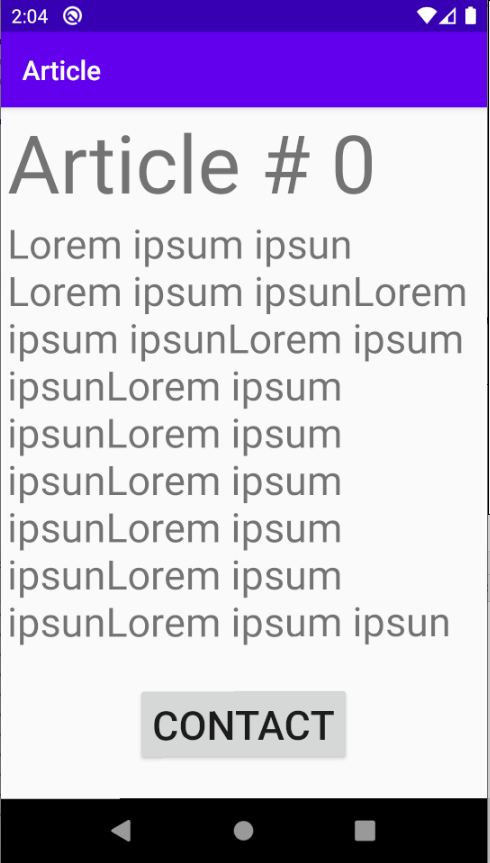
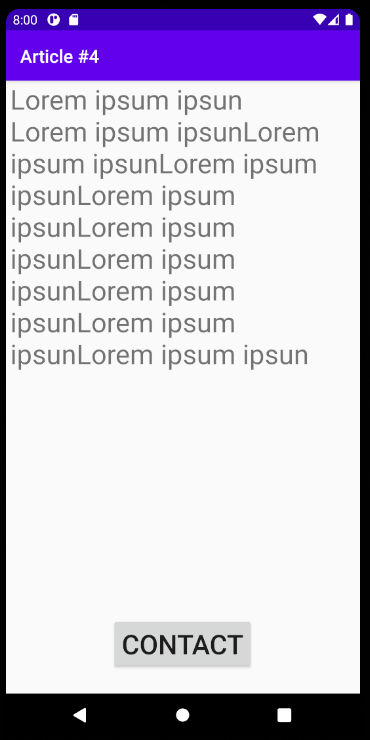
Modif semaine 9

Changed region(s): [[0.0, 0.0, 1.0, 1.0]]

diff --git a/intro-android.html b/intro-android.html
@@ -82,7 +82,7 @@
                                 Reproduire le drapeau de l'Italie avec 3 TextView de même taille.
                             </p>
                             <img src="img/italia.png" style="width:40%"/>
-                            <img src="img/italia-portait.png" style="width:40%" />
+                            <img src="img/italia-portait.png" style="width:25%" />
                             <h3>Exercice TapeLeLapin</h3>
                             <p>
                                 Vous devez programmer le jeu de Tape Le Lapin.  Votre application doit être i18n compatible avec des versions anglais et français.
@@ -97,7 +97,7 @@
                                 </li>
                             </ul>
                             <div class="well">
-                                <img src="img/TapeLapin.jpg" style="width:80%" />
+                                <img src="img/Tape_le_lapin.PNG" style="width:30%" />
                             </div>
                         
                         </div>

diff --git a/activites.html b/activites.html
@@ -98,7 +98,7 @@
 								
 								<ul>
 									<li>Accueil  : Contient un texte disant Bonjour et un Number Picker. </li>
-									<li>Article  : Affiche toujours le même texte (lorem ipsum), mais le numéro de l'article change en fonction de ce qui a été choisi sur l'activité d'accueil </li>
+									<li>Article  : Affiche toujours le même texte (lorem ipsum), mais le numéro de l'article dans le titre change en fonction de ce qui a été choisi sur l'activité d'accueil </li>
 									<li>Contact : Contient un texte éditable où on entre son nom  </li>
 									<li>Lorsqu'on est sur l'activité Contact et qu'on revient à l'accueil avec le bouton, on doit changer le message pour Bonjour [nom] </li>
 								</ul>
